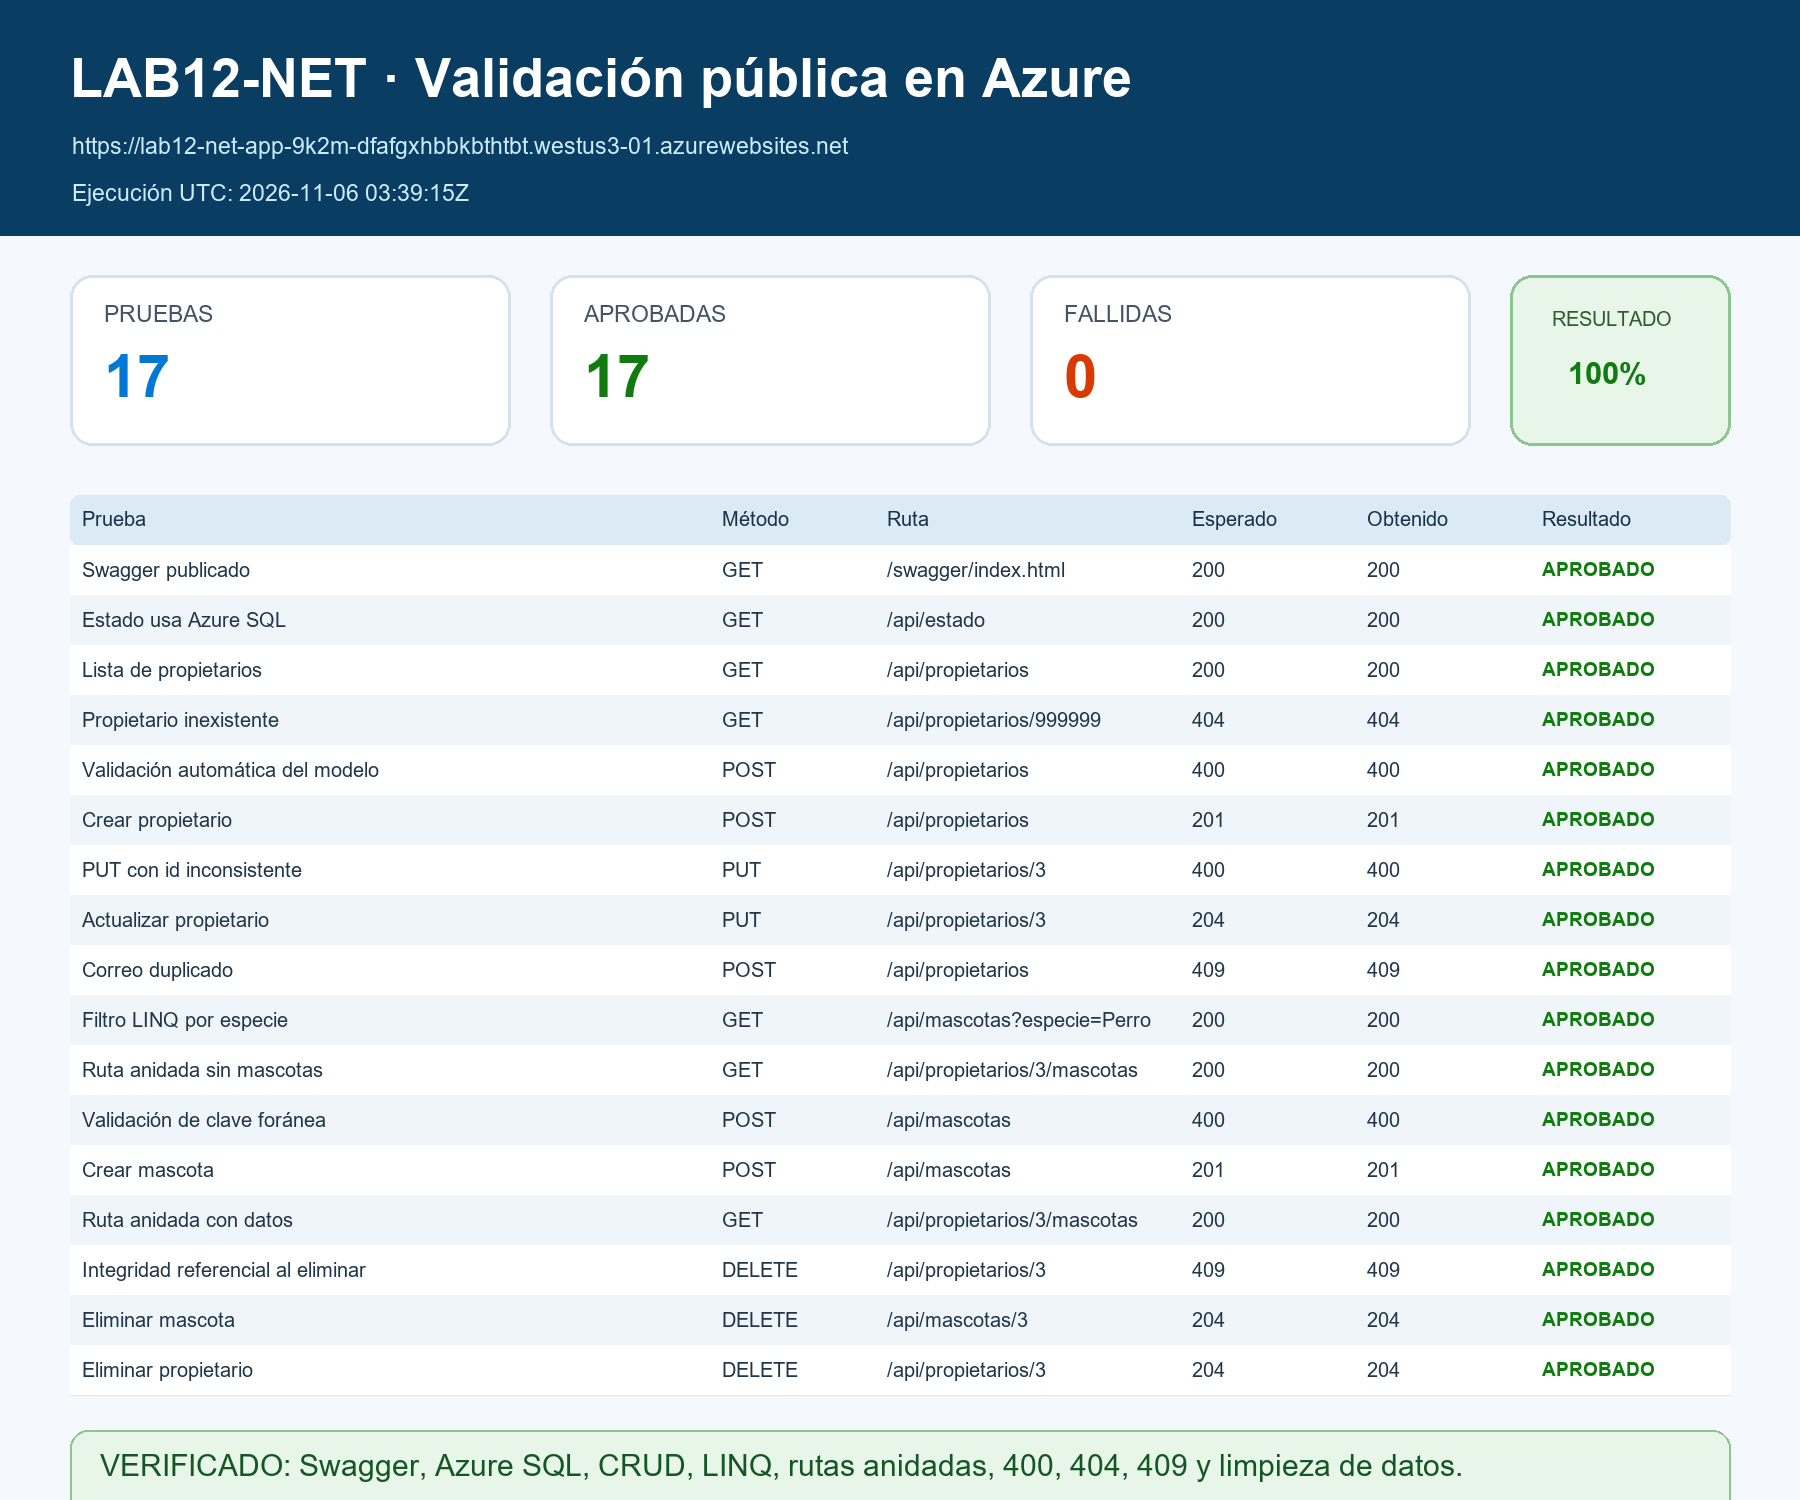
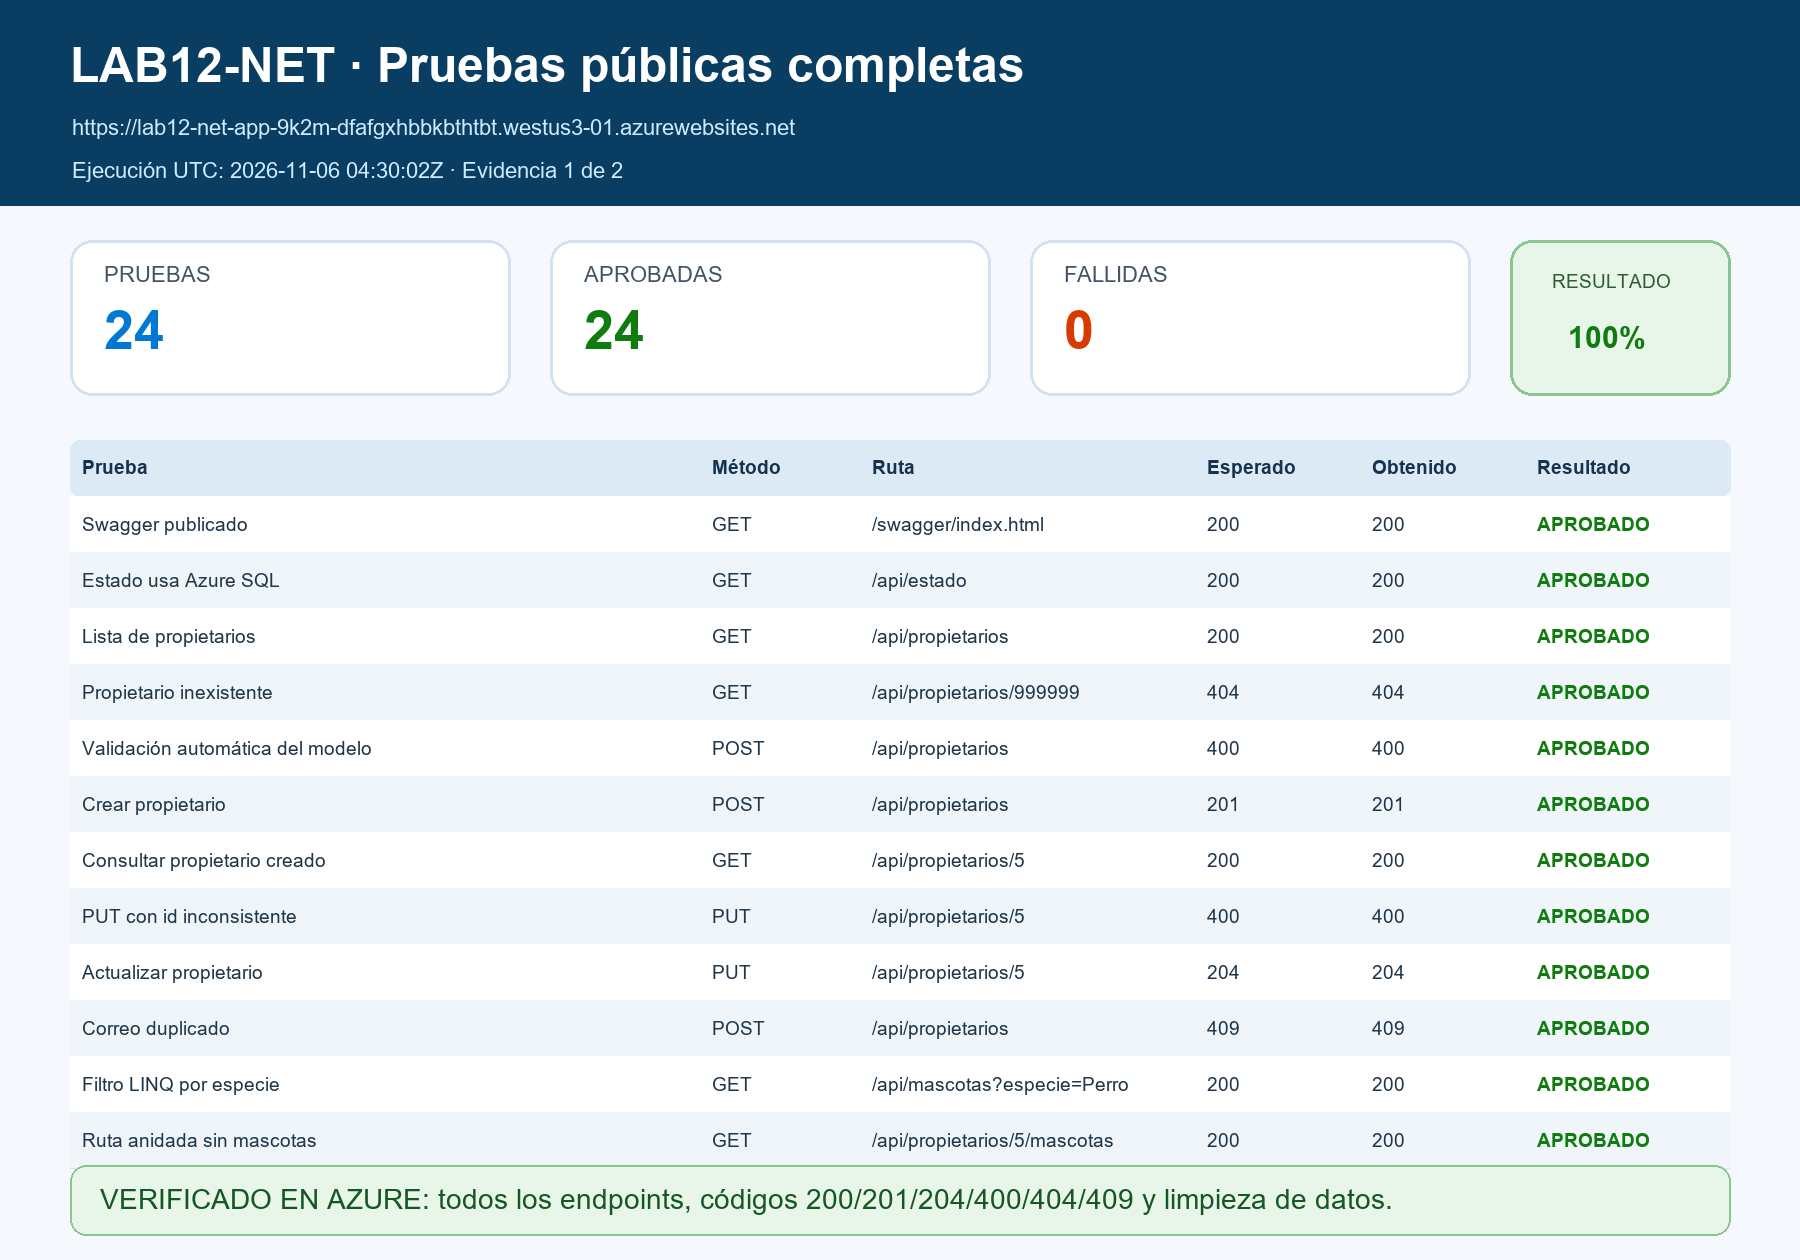
Completar Database First y pruebas de todos los endpoints

diff --git a/Scaffolded/Data/VeterinariaScaffoldContext.cs b/Scaffolded/Data/VeterinariaScaffoldContext.cs
@@ -1,0 +1,32 @@
+using System;
+using System.Collections.Generic;
+using Lab12NetApi.Scaffolded.Models;
+using Microsoft.EntityFrameworkCore;
+
+namespace Lab12NetApi.Scaffolded.Data;
+
+public partial class VeterinariaScaffoldContext : DbContext
+{
+    public VeterinariaScaffoldContext(DbContextOptions<VeterinariaScaffoldContext> options)
+        : base(options)
+    {
+    }
+
+    public virtual DbSet<Mascota> Mascotas { get; set; }
+
+    public virtual DbSet<Propietario> Propietarios { get; set; }
+
+    protected override void OnModelCreating(ModelBuilder modelBuilder)
+    {
+        modelBuilder.Entity<Mascota>(entity =>
+        {
+            entity.HasOne(d => d.Propietario).WithMany(p => p.Mascota)
+                .OnDelete(DeleteBehavior.ClientSetNull)
+                .HasConstraintName("FK_Mascotas_Propietarios");
+        });
+
+        OnModelCreatingPartial(modelBuilder);
+    }
+
+    partial void OnModelCreatingPartial(ModelBuilder modelBuilder);
+}

diff --git a/Scaffolded/Models/Propietario.cs b/Scaffolded/Models/Propietario.cs
@@ -1,0 +1,26 @@
+using System;
+using System.Collections.Generic;
+using System.ComponentModel.DataAnnotations;
+using System.ComponentModel.DataAnnotations.Schema;
+using Microsoft.EntityFrameworkCore;
+
+namespace Lab12NetApi.Scaffolded.Models;
+
+[Index("Email", Name = "UQ_Propietarios_Email", IsUnique = true)]
+public partial class Propietario
+{
+    [Key]
+    public int Id { get; set; }
+
+    [StringLength(100)]
+    public string Nombre { get; set; } = null!;
+
+    [StringLength(150)]
+    public string Email { get; set; } = null!;
+
+    [StringLength(20)]
+    public string? Telefono { get; set; }
+
+    [InverseProperty("Propietario")]
+    public virtual ICollection<Mascota> Mascota { get; set; } = new List<Mascota>();
+}

diff --git a/Scaffolded/Models/Mascota.cs b/Scaffolded/Models/Mascota.cs
@@ -1,0 +1,27 @@
+using System;
+using System.Collections.Generic;
+using System.ComponentModel.DataAnnotations;
+using System.ComponentModel.DataAnnotations.Schema;
+using Microsoft.EntityFrameworkCore;
+
+namespace Lab12NetApi.Scaffolded.Models;
+
+public partial class Mascota
+{
+    [Key]
+    public int Id { get; set; }
+
+    [StringLength(80)]
+    public string Nombre { get; set; } = null!;
+
+    [StringLength(50)]
+    public string Especie { get; set; } = null!;
+
+    public int Edad { get; set; }
+
+    public int PropietarioId { get; set; }
+
+    [ForeignKey("PropietarioId")]
+    [InverseProperty("Mascota")]
+    public virtual Propietario Propietario { get; set; } = null!;
+}

diff --git a/README.md b/README.md
@@ -36,8 +36,8 @@ API REST desarrollada con ASP.NET Core .NET 10 y Entity Framework Core para admi
 | DELETE | `/api/propietarios/{id}` | 204, 404, 409 |
 | GET | `/api/mascotas?especie={valor}` | 200 |
 | GET | `/api/mascotas/{id}` | 200, 404 |
-| POST | `/api/mascotas` | 201, 400 |
-| PUT | `/api/mascotas/{id}` | 204, 400, 404 |
+| POST | `/api/mascotas` | 201, 400, 409 |
+| PUT | `/api/mascotas/{id}` | 204, 400, 404, 409 |
 | DELETE | `/api/mascotas/{id}` | 204, 404 |
 
 ## Seguridad y configuración
@@ -59,9 +59,27 @@ Después, abre la dirección de Swagger indicada por la consola. Para utilizar S
 
 `database.sql` crea las tablas `Propietarios` y `Mascotas`, sus restricciones y datos de ejemplo. El script elimina las tablas existentes antes de recrearlas, por lo que debe ejecutarse únicamente en una base de datos de laboratorio.
 
+## Database First con Scaffold
+
+El modelo Database First se generó realmente con `dotnet ef dbcontext scaffold` a partir de una base SQL Server creada con `database.sql`. Los archivos generados están en `Scaffolded/Models` y `Scaffolded/Data`; se utilizó `--no-onconfiguring`, por lo que no contienen ninguna cadena de conexión. El manifiesto `.config/dotnet-tools.json` fija `dotnet-ef` 10.0.14.
+
+Para reproducir todo el procedimiento en Windows con SQL Server LocalDB:
+
+```powershell
+.\scripts\Scaffold-DatabaseFirst.ps1
+```
+
+El código operativo de `Models` y `Data/VeterinariaContext.cs` conserva los ajustes posteriores requeridos por la práctica: Data Annotations adicionales, navegación hija nullable y `JsonIgnore` para evitar ciclos. La explicación completa y el comando expandido están en `docs/SCAFFOLD-DATABASE-FIRST.md`.
+
+## Elección de servicios gratuitos
+
+Se eligió Azure App Service F1 porque ejecuta ASP.NET Core .NET 10 directamente, integra despliegue ZIP, Swagger, variables de entorno e identidad administrada. Frente a alternativas como Render o Railway, evita adaptar el proyecto a un contenedor o depender de créditos temporales y mantiene la aplicación dentro del mismo proveedor que la base de datos.
+
+Se eligió Azure SQL Database Free porque conserva SQL Server y el proveedor `Microsoft.EntityFrameworkCore.SqlServer` utilizado durante el desarrollo. Frente a PostgreSQL gratuito en Neon o Supabase, no requiere cambiar el proveedor de EF Core ni adaptar `database.sql`. Además, la identidad administrada elimina contraseñas entre App Service y Azure SQL.
+
 ## Pruebas públicas
 
-El script `tests/Test-Lab12Api.ps1` ejecuta 17 pruebas contra la API publicada y limpia los registros creados durante la ejecución. Los resultados verificados están en `docs/public-test-results.json` y la matriz visual en `docs/captura-pruebas-publicas.png`.
+El script `tests/Test-Lab12Api.ps1` ejecuta 24 pruebas contra la API publicada, cubre todos los endpoints de Propietarios y Mascotas y limpia los registros creados durante la ejecución. Los resultados verificados están en `docs/public-test-results.json` y las matrices visuales en `docs/captura-pruebas-publicas-1.png` y `docs/captura-pruebas-publicas-2.png`.
 
-Resultado final: **17 pruebas aprobadas de 17, sin fallos**.
+Resultado final: **24 pruebas aprobadas de 24, sin fallos**.
 

diff --git a/docs/SCAFFOLD-DATABASE-FIRST.md b/docs/SCAFFOLD-DATABASE-FIRST.md
@@ -1,0 +1,29 @@
+# Evidencia de Database First con EF Core Scaffold
+
+El 6 de noviembre de 2026 se creó la base local exclusiva `Lab12VeterinariaScaffold` en SQL Server LocalDB y se ejecutó `database.sql`. La comprobación de `sys.tables` devolvió las tablas `Propietarios` y `Mascotas`, con cuatro y cinco columnas respectivamente.
+
+Después se ejecutó EF Core 10.0.14 con el proveedor `Microsoft.EntityFrameworkCore.SqlServer`:
+
+```powershell
+dotnet tool run dotnet-ef dbcontext scaffold `
+  "Server=(localdb)\MSSQLLocalDB;Database=Lab12VeterinariaScaffold;Trusted_Connection=True;TrustServerCertificate=True" `
+  Microsoft.EntityFrameworkCore.SqlServer `
+  --context VeterinariaScaffoldContext `
+  --context-dir Scaffolded/Data `
+  --output-dir Scaffolded/Models `
+  --namespace Lab12NetApi.Scaffolded.Models `
+  --context-namespace Lab12NetApi.Scaffolded.Data `
+  --data-annotations `
+  --no-onconfiguring `
+  --table dbo.Propietarios `
+  --table dbo.Mascotas `
+  --force --verbose
+```
+
+La salida detectó las dos tablas, sus claves primarias, la restricción única `UQ_Propietarios_Email` y la clave foránea `FK_Mascotas_Propietarios`. Se generaron los siguientes archivos:
+
+- `Scaffolded/Models/Propietario.cs`
+- `Scaffolded/Models/Mascota.cs`
+- `Scaffolded/Data/VeterinariaScaffoldContext.cs`
+
+El parámetro `--no-onconfiguring` evita guardar la cadena de conexión en el código generado. El script `scripts/Scaffold-DatabaseFirst.ps1` permite repetir el proceso completo. Después del Scaffold, el modelo operativo incorporó las validaciones de la práctica, la navegación hija nullable y `JsonIgnore` para la serialización JSON.
